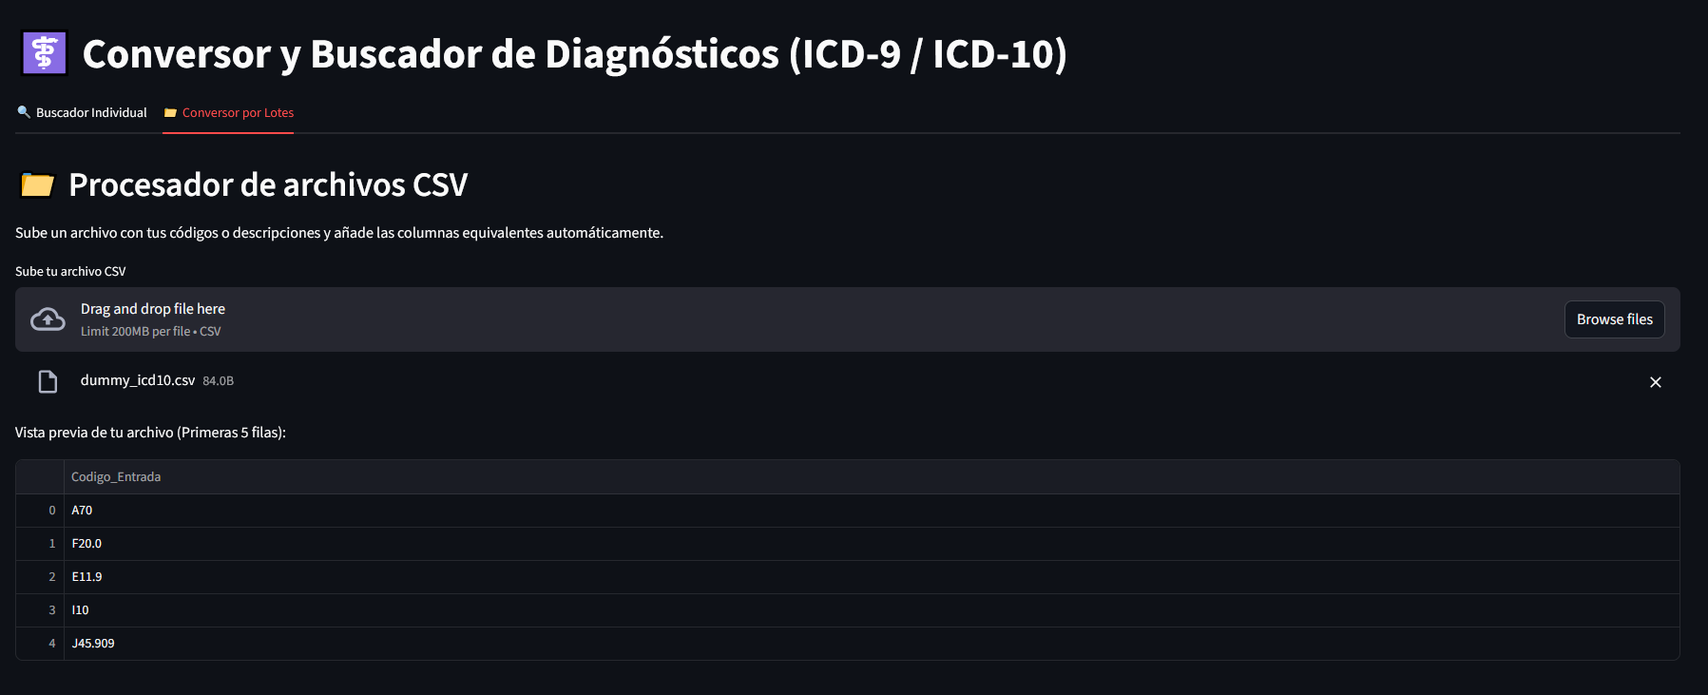
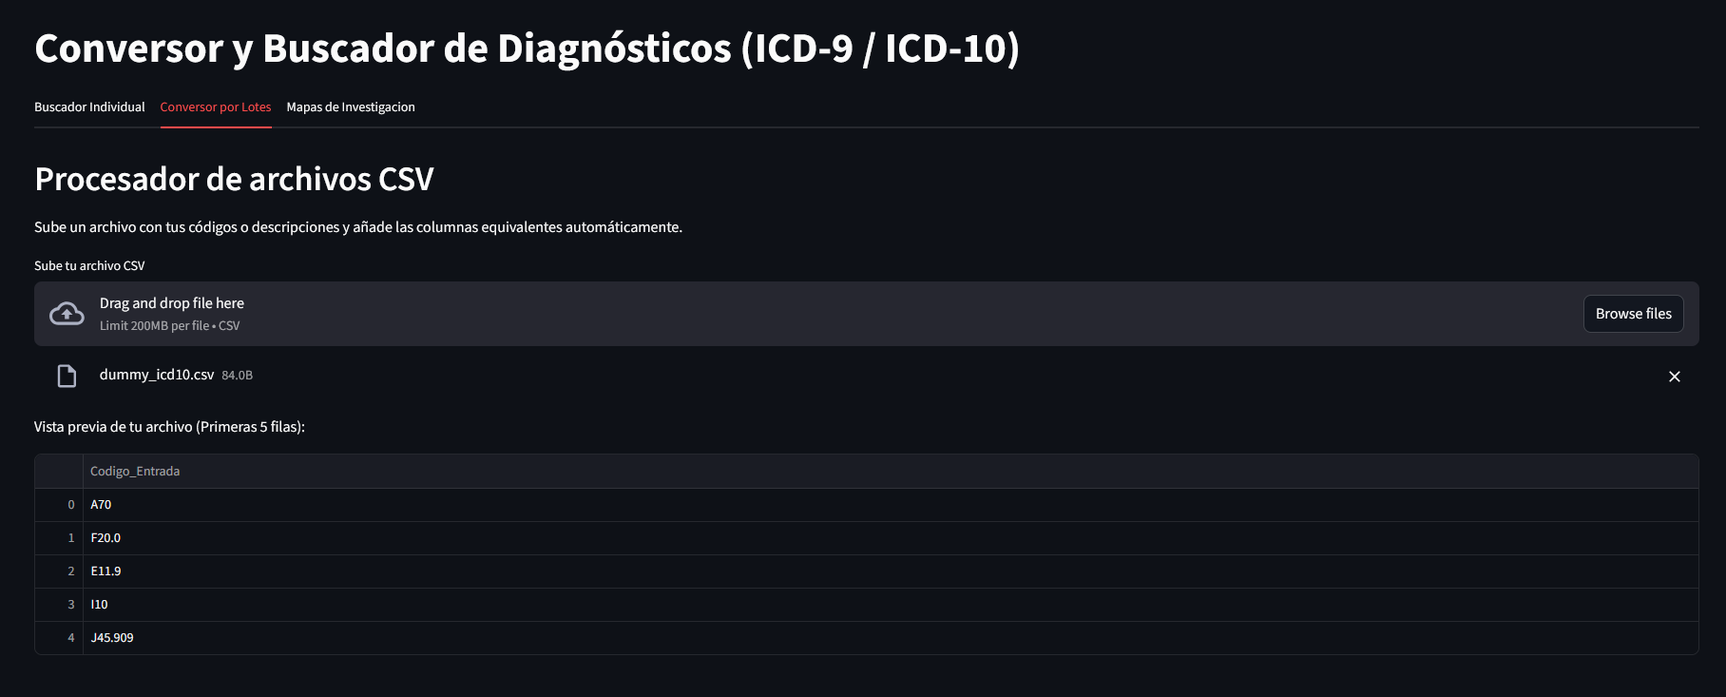
Retoques de apartados

diff --git a/LaTeX/Memoria.tex b/LaTeX/Memoria.tex
@@ -269,8 +269,6 @@
 \listoffigures % Índice de figuras 
 \newpage
 \listoftables % Índice de cuadros y tablas 
-\newpage
-\lstlistoflistings % Índice de codigos
 
 \newpage
 \chapter*{Glosario y Acrónimos}
@@ -499,7 +497,7 @@ En el panorama actual de la psiquiatría computacional, el \textit{Machine Learn
 A continuación, se presenta una comparativa técnica de los algoritmos identificados en la tabla:
 \begin{table}[h]
     \centering
-    \begin{tabular}{|l|p{3cm}|p{5cm}|p{4cm}|}
+    \begin{tabular}{|p{2cm}|p{3cm}|p{5cm}|p{4cm}|}
         \hline
         \textbf{Algoritmo} & \textbf{Fortalezas} & \textbf{Limitaciones} & \textbf{Necesidad de Procesamiento}\\
         \hline
@@ -511,7 +509,7 @@ A continuación, se presenta una comparativa técnica de los algoritmos identifi
         \hline
         CNN / RNN & Capacidad para procesar tensores de imagen y señales temporales. & Menor representación en meta-análisis clínicos \cite{Tyagi}. & Requiere selección rigurosa de hiperparámetros.\\
         \hline
-        DL & Potencial para modelar relaciones no lineales complejas. & Riesgo de sobreajuste y falta de interpretabilidad \cite{Amleshi}. & Requiere grandes conjuntos de datos y técnicas de regularización. \\
+        DL & Potencial para modelar relaciones no lineales complejas. & Riesgo de sobreajuste y falta de interpretabilidad \cite{Amleshi}. & Requiere grandes conjuntos de datos y técnicas de regularización. \\ \hline
     \end{tabular}
     \caption{Comparativa de algoritmos de IA aplicados a la predicción de resultados en esquizofrenia.}
 \end{table}
@@ -999,9 +997,9 @@ Tras el análisis exhaustivo de los diferentes paradigmas tecnológicos y los re
 La arquitectura propuesta se fundamenta en los siguientes tres pilares técnicos:
 
 \begin{enumerate}
-\item \textbf{Motor Predictivo basado en Ensamblados (ML Tradicional):} A pesar de la sofisticación semántica y la capacidad de atención de los modelos basados en Transformers (BERT), la experimentación empírica determinó que, para la naturaleza tabular y la alta dimensionalidad de las 20 columnas de diagnósticos clínicos, los algoritmos \textbf{XGBoost} y \textbf{Random Forest} ofrecen un rendimiento superior. Por ello, la propuesta final selecciona estos modelos entrenados sobre el \textbf{Dataset 3 (Híbrido RUS + VAE)}, garantizando una frontera de decisión robusta, equilibrada frente al desbalanceo de clases y con un coste computacional significativamente menor en tiempo de inferencia.
-\item \textbf{Capa de Contexto Relacional (Neo4j):} Como complemento a la predicción probabilística del motor de \textit{Machine Learning}, se integra de forma permanente el \textbf{Grafo de Conocimiento}. Esta capa permite al clínico no solo recibir una predicción numérica, sino visualizar la red de comorbilidades y la cercanía topológica del paciente dentro de la comunidad de diagnósticos del \textit{dataset} regional. Esta integración aporta una dimensión de interpretabilidad relacional necesaria en entornos médicos, permitiendo validar las predicciones del modelo mediante la observación de patrones de co-ocurrencia clínica.
-\item \textbf{Motor de Interoperabilidad Semántica (Conversor ICD):} Se propone la integración nativa de un motor de traducción que actúe como la puerta de enlace (\textit{gateway}) de la información. Esto garantiza que la propuesta final sea agnóstica al sistema de codificación del historial original (ICD-9 o ICD-10) y que pueda transformar texto libre en códigos estandarizados, permitiendo una ingesta de datos limpia hacia los clasificadores y una salida bilingüe orientada a la investigación internacional.
+    \item \textbf{Motor Predictivo basado en Ensamblados (ML Tradicional):} A pesar de la sofisticación semántica y la capacidad de atención de los modelos basados en Transformers (BERT), la experimentación empírica determinó que, para la naturaleza tabular y la alta dimensionalidad de las 20 columnas de diagnósticos clínicos, los algoritmos \textbf{XGBoost} y \textbf{Random Forest} ofrecen un rendimiento superior. Por ello, la propuesta final selecciona estos modelos entrenados sobre el \textbf{Dataset 3 (Híbrido RUS + VAE)}, garantizando una frontera de decisión robusta, equilibrada frente al desbalanceo de clases y con un coste computacional significativamente menor en tiempo de inferencia.
+    \item \textbf{Capa de Contexto Relacional (Neo4j):} Como complemento a la predicción probabilística del motor de \textit{Machine Learning}, se integra de forma permanente el \textbf{Grafo de Conocimiento}. Esta capa permite al clínico no solo recibir una predicción numérica, sino visualizar la red de comorbilidades y la cercanía topológica del paciente dentro de la comunidad de diagnósticos del \textit{dataset} regional. Esta integración aporta una dimensión de interpretabilidad relacional necesaria en entornos médicos, permitiendo validar las predicciones del modelo mediante la observación de patrones de co-ocurrencia clínica.
+    \item \textbf{Motor de Interoperabilidad Semántica (Conversor ICD):} Se propone la integración nativa de un motor de traducción que actúe como la puerta de enlace (\textit{gateway}) de la información. Esto garantiza que la propuesta final sea agnóstica al sistema de codificación del historial original (ICD-9 o ICD-10) y que pueda transformar texto libre en códigos estandarizados, permitiendo una ingesta de datos limpia hacia los clasificadores y una salida bilingüe orientada a la investigación internacional.
 \end{enumerate}
 En conclusión, la propuesta metodológica definitiva de este trabajo consiste en un \textbf{Sistema de Soporte Híbrido} que orquesta estos tres componentes bajo una interfaz web unificada. El flujo de trabajo propuesto comienza con la normalización y conversión de los diagnósticos, continúa con la clasificación del espectro esquizofrénico mediante árboles de decisión optimizados y finaliza con la validación visual de la trayectoria del paciente a través del análisis de comunidades en el grafo de conocimiento. Esta sinergia tecnológica permite transformar un listado plano de registros en un marco de decisión clínica estructurado, transparente y funcional.
 
@@ -1487,7 +1485,7 @@ Este dataset universal nos da 2 aplicacions muy importantes:
 
 El módulo de visualización de la aplicación se ha diseñado bajo el principio de simplicidad y eficiencia en la interfaz de usuario (\textit{UI/UX}). El objetivo principal es evitar la sobrecarga cognitiva del personal sanitario, transformando los resultados numéricos de los modelos predictivos y las consultas complejas a la base de datos de grafos en representaciones visuales intuitivas y directamente interpretables durante la práctica clínica.
 
-Esta decisión de desarrollar una plataforma web propia responde no solo a la necesidad de integrar los algoritmos de IA, sino también a las severas limitaciones que presentan las herramientas de conversión y consulta disponibles actualmente en la web:
+Esta decisión de desarrollar una plataforma web propia responde  a las severas limitaciones que presentan las herramientas de conversión y consulta disponibles actualmente en el internet.
 \begin{comment}
 \begin{itemize}
     \item \textbf{Limitación del portal oficial español (eCIEMaps):} El navegador del Ministerio de Sanidad \cite{eciemaps_sanidad} está diseñado como un catálogo jerárquico estático. Su interfaz resulta rígida y lenta, estando orientada exclusivamente a la búsqueda puntual e individualizada de un único código cada vez, lo que imposibilita la traducción masiva o por lotes (\textit{batch processing}) de historiales clínicos.
@@ -1500,16 +1498,15 @@ Esta decisión de desarrollar una plataforma web propia responde no solo a la ne
 Frente a estas carencias, la aplicación web desarrollada en \textbf{Streamlit} consolida en un único entorno centralizado tres pilares funcionales:
 \begin{enumerate}
     \item \textbf{Procesamiento por lotes e instantáneo:} Permite la conversión individual y masiva entre CIE-9 y CIE-10 en castellano sin restricciones de volumen ni publicidad.
-    \item \textbf{Exploración gráfica de comorbilidades:} Renderiza de forma interactiva las redes relacionales almacenadas en Neo4j, permitiendo al clínico navegar visualmente por las asociaciones entre diagnósticos.
-    \item \textbf{Cuadro de mando predictivo e interpretable:} Presenta las probabilidades diagnósticas de los modelos de \textit{Machine Learning} y \textit{Deep Learning} de forma clara, complementándolas con gráficos relacionales y mapas de distribución espacial.
+    \item \textbf{Exploración gráfica de comorbilidades y mapas de estudio:} Renderiza de forma interactiva las redes relacionales almacenadas en Neo4j y mapas de frecuencias, permitiendo al clínico navegar visualmente por las asociaciones entre diagnósticos o estudiar la distribucion de diagnosticos.
+    \item \textbf{Consulta de diagnosticos:} Facil visualizacion de las distintas formas y lenguajes con los que se pueden representar diagnosticos clinicos.
 \end{enumerate}
 
 
 
 \section{Requisitos}
 
-Para garantizar un desarrollo de \textit{software} riguroso y alineado con las metodologías ágiles de ingeniería, la herramienta web desarrollada en \textbf{Streamlit} se ha diseñado a partir de una fase previa de especificación técnica. Este apartado formaliza el comportamiento del sistema mediante el catálogo de Requisitos Funcionales (RF), Requisitos No Funcionales (RNF) y las Historias de Usuario (HU) asociadas.
-Los requisitos del sistema delimitan las capacidades operativas y las restricciones de calidad que debe satisfacer la plataforma:
+Para garantizar un desarrollo de software riguroso y alineado con las metodologías ágiles de ingeniería, la herramienta web desarrollada en \textbf{Streamlit} se ha diseñado suigiendo unas especifiaciones y requisiots a cumplir, recopilados entre Requisitos Funcionales (RF), Requisitos No Funcionales (RNF) y las Historias de Usuario (HU) asociadas.
 
 \subsection{Requisitos Funcionales}
 \begin{table}[htbp]
@@ -1521,15 +1518,8 @@ Los requisitos del sistema delimitan las capacidades operativas y las restriccio
 \textbf{Código} & \textbf{Descripción del Requisito Funcional (RF)} \\ \hline
 \textbf{RF-01} & \textbf{Mapeo normativo CIE-9 / CIE-10:} El sistema debe realizar la conversión automática y bidireccional entre las codificaciones diagnósticas antiguas e independientes. \\
 \textbf{RF-02} & \textbf{Múltiples conversiones:} El sistema debe permitir la conversión simultánea de varios códigos a un formato deseado. \\
-\textbf{RF-03} & \textbf{Exportación de informes y analítica:} El sistema debe permitir descargar los resultados de las conversiones en lote en formatos estándar (PDF/CSV). \\
-\begin{comment}
-\textbf{RF-02} & \textbf{Inferencia predictiva multiclase:} El sistema debe procesar sintomatología o historiales clínicos y devolver la probabilidad diagnóstica dentro del espectro esquizofrénico mediante los modelos entrenados. \\
-\textbf{RF-03} & \textbf{Exploración de grafos clínicos:} El sistema debe consultar la base de datos Neo4j mediante lenguaje \textit{Cypher} para renderizar visualmente las comorbilidades y trayectorias de pacientes. \\
-\textbf{RF-04} & \textbf{Visualización epidemiológica espacial:} El sistema debe generar mapas coropléticos interactivos cruzando datos de densidad poblacional (CSV) con límites vectoriales (GeoJSON). \\
-\textbf{RF-05} & \textbf{Procesamiento de texto libre (NLP):} El sistema debe tokenizar y evaluar descripciones médicas en lenguaje natural en español mediante la arquitectura BERT. \\ \hline
-\textbf{RF-07} & \textbf{Filtrado avanzado en la red de grafos:} El sistema debe ofrecer controles interactivos para filtrar el subgrafo de Neo4j según variables sociodemográficas (rango de edad, sexo) o por umbrales de densidad de la relación de comorbilidad. \\
-\textbf{RF-08} & \textbf{Trazabilidad y registro de inferencias (Logs):} El sistema debe almacenar un registro local desidentificado de los diagnósticos inferidos y parámetros utilizados para permitir auditorías técnicas posteriores. \\ \hline
-\end{comment}
+\textbf{RF-03} & \textbf{Exportación de informes y analítica:} El sistema debe permitir descargar los resultados de las conversiones en lote en formatos estándar CSV. \\
+\textbf{RF-04} & \textbf{Visualizacion de mapas y grafos} El sistema debe permitir al usuario mostrar en pantalla y permitir interactuar con los graficos y mapas generados durante el estudio. \\ \hline
 
 \end{tabular}
 \caption{Catálogo de Requisitos Funcionales del sistema.}
@@ -1545,12 +1535,11 @@ Los requisitos del sistema delimitan las capacidades operativas y las restriccio
 \begin{tabular}{lp{10cm}}
 \hline
 \textbf{Código} & \textbf{Descripción del Requisito No Funcional (RNF)} \\ \hline
-\textbf{RNF-01} & \textbf{Tiempo de respuesta (Rendimiento):} El tiempo de inferencia de las conversiones individuales no superará los 5 segundos y las conversiones en lote no excederán los 30 segundos. \\
+\textbf{RNF-01} & \textbf{Tiempo de respuesta (Rendimiento):} El tiempo de inferencia de las conversiones individuales no superará los 5 segundos y las conversiones en lote no excederán los 30 segundos. El tiempo de carga de los mapas no superará los 30 segundos. \\
 \textbf{RNF-02} & \textbf{Usabilidad (UX/UI):} La interfaz debe ser intuitiva, accesible desde navegadores web convencionales y no requerir conocimientos de programación por parte del clínico. \\
 \textbf{RNF-03} & \textbf{Seguridad y Privacidad (ENS/RGPD):} El sistema debe garantizar la anonimización absoluta de la información tratada, operando bajo el principio de mínimo privilegio. \\
 \textbf{RNF-04} & \textbf{Interoperabilidad y Portabilidad:} El \textit{backend} debe basarse en formatos abiertos y estándar (CSV, GeoJSON, ejecutable de Python). \\
-\textbf{RNF-05} & \textbf{Mantenibilidad y Modularidad:} La arquitectura del \textit{software} debe estar desacoplada en capas independientes (interfaz, pipelines de IA y conector Neo4j) para facilitar el reemplazo o actualización de modelos sin alterar la interfaz. \\
-\textbf{RNF-06} & \textbf{Escalabilidad del almacenamiento:} La base de datos orientada a grafos debe estar optimizada en índices de nodos para mantener tiempos de consulta eficientes ante futuros incrementos en el número de pacientes o conexiones diagnósticas. \\ \hline
+\textbf{RNF-05} & \textbf{Escalabilidad del sistema:} La seleccion de mapas y figuras a mostrar o las opciones de conversion de codigos se tienen que actualizar de forma dinamica sin tener que modificar el codigo de la pagina web. \\ \hline
 \end{tabular}
 \caption{Catálogo de Requisitos No Funcionales del sistema.}
 \label{tab:requisitos_no_funcionales}
@@ -1569,16 +1558,16 @@ Los requisitos del sistema delimitan las capacidades operativas y las restriccio
 \textbf{Código: HU-01} & \textbf{Título: Conversión e Interoperabilidad CIE-9 / CIE-10} \\ \hline
 \textbf{Rol del usuario} & Personal Administrativo / Clínico. \\ \hline
 \textbf{Descripción} & Como usuario del sistema, quiero consultar la equivalencia exacta entre códigos históricos CIE-9 y modernos CIE-10 para mantener la integridad documental. \\ \hline
-\textbf{Prioridad} & Media (\textit{Should Have}). \\ \hline
-\textbf{Dependencias} & RF-02, Tabla relacional CSV de mapeos normativos. \\ \hline
+\textbf{Prioridad} & Alta. \\ \hline
+\textbf{Dependencias} & RF-01, RF-02, Tabla relacional CSV de mapeos normativos. \\ \hline
 \textbf{Criterios de Aceptación} & 
 \begin{itemize}[leftmargin=*]
-    \item \textbf{CA-4.1:} El módulo debe permitir búsquedas bidireccionales por código o por texto descriptivo.
-    \item \textbf{CA-4.2:} Debe mostrarse de forma clara la correspondencia oficial y su descripción en español.
+    \item \textbf{CA-1.1:} El módulo debe permitir búsquedas bidireccionales por código o por texto descriptivo.
+    \item \textbf{CA-1.2:} Debe mostrarse de forma clara la correspondencia oficial y su descripción en español.
 \end{itemize} \\ \hline
 \end{tabular}
-\caption{Especificación de la Historia de Usuario HU-04: Mapeo CIE.}
-\label{tab:hu_04}
+\caption{Especificación de la Historia de Usuario HU-01: Mapeo CIE.}
+\label{tab:hu_01}
 \end{table}
 
 \begin{table}[htbp]
@@ -1589,18 +1578,40 @@ Los requisitos del sistema delimitan las capacidades operativas y las restriccio
 \hline
 \rowcolor[RGB]{239,239,239} 
 \textbf{Código: HU-02} & \textbf{Título: Análisis Espacial e Inspección Cartográfica} \\ \hline
-\textbf{Rol del usuario} & Gestor Sanitario / Epidemiólogo. \\ \hline
+\textbf{Rol del usuario} & Epidemiólogo / Investigador. \\ \hline
 \textbf{Descripción} & Como epidemiólogo, quiero visualizar la distribución geográfica de los casos por código postal para detectar focos de prevalencia poblacional. \\ \hline
-\textbf{Prioridad} & Alta. \\ \hline
-\textbf{Dependencias} & Ficheros GeoJSON y CSV de frecuencias agregadas. \\ \hline
+\textbf{Prioridad} & Media. \\ \hline
+\textbf{Dependencias} & RF-04, Ficheros GeoJSON y CSV de frecuencias agregadas. \\ \hline
 \textbf{Criterios de Aceptación} & 
 \begin{itemize}[leftmargin=*]
-    \item \textbf{CA-3.1:} El mapa coroplético debe renderizar un gradiente de color proporcional a la frecuencia de casos.
-    \item \textbf{CA-3.2:} Al pasar el cursor (\textit{tooltip}) sobre un código postal, debe mostrarse el número de afectados.
-    \item \textbf{CA-3.3:} El visor debe permitir hacer \textit{zoom} y desplazamiento fluido por todo el territorio.
+    \item \textbf{CA-2.1:} El mapa coroplético debe renderizar un gradiente de color proporcional a la frecuencia de casos.
+    \item \textbf{CA-2.2:} Al pasar el cursor sobre un código postal, debe mostrarse el número de afectados o datos sobre la zona.
+    \item \textbf{CA-2.3:} El visor debe permitir hacer zoom y desplazamiento fluido por todo el territorio.
 \end{itemize} \\ \hline
 \end{tabular}
-\caption{Especificación de la Historia de Usuario HU-03: Análisis Espacial.}
+\caption{Especificación de la Historia de Usuario HU-02: Análisis Espacial.}
+\label{tab:hu_02}
+\end{table}
+
+\begin{table}[htbp]
+\centering
+\small
+\renewcommand{\arraystretch}{1.0}
+\begin{tabular}{|p{3.5cm}|p{10.5cm}|}
+\hline
+\rowcolor[RGB]{239,239,239} 
+\textbf{Código: HU-03} & \textbf{Título: Exportación de Códigos Convertidos CIE-9 a CIE-10} \\ \hline
+\textbf{Rol del usuario} & Facultativo / Gestor de Datos Clínicos. \\ \hline
+\textbf{Descripción} & Como gestor de datos, quiero poder descargar los resultados de la conversión normativa en un archivo CSV para integrar masivamente las equivalencias en el sistema de historia clínica o tratarlos en herramientas de análisis externas. \\ \hline
+\textbf{Prioridad} & Media. \\ \hline
+\textbf{Dependencias} & RF-02, RF-03, Dataset estructurado de conversión CIE, Módulo conversor de Streamlit. \\ \hline
+\textbf{Criterios de Aceptación} & 
+\begin{itemize}[leftmargin=*]
+    \item \textbf{CA-3.1:} La interfaz debe incorporar un botón visible que permita la descarga directa de la tabla de resultados en formato estandarizado \texttt{.csv}, sin tener que recargar la página web ni exponer datos.
+    \item \textbf{CA-3.2:} El archivo descargado debe incluir correctamente las columnas mapeadas que se han seleccionado, respetando la codificación UTF-8 para evitar errores en caracteres especiales.
+\end{itemize} \\ \hline
+\end{tabular}
+\caption{Especificación de la Historia de Usuario HU-03: Exportación de Códigos Convertidos.}
 \label{tab:hu_03}
 \end{table}
 
@@ -1608,7 +1619,7 @@ Los requisitos del sistema delimitan las capacidades operativas y las restriccio
 
 Mi aplicación web centra su potencial visual en la estructuración limpia de formularios de texto, tablas de datos dinámicas y paneles interactivos. Dado que el objetivo primordial del sistema es la conversión ágil de códigos ICD y la clasificación semántica en tiempo real, el diseño da prioridad absoluta al texto y a la legibilidad de los diagnósticos frente a las representaciones gráficas convencionales.
 
-La interfaz de usuario se articula en torno a dos bloques visuales fundamentales que constan de un campo de texto libre optimizado donde el facultativo introduce la descripción clínica o el diagnóstico en lenguaje natural. Visualmente, el sistema responde de forma síncrona, eliminando elementos distractores y presentando el resultado del conversor ICD-9 a ICD-10 de manera jerárquica mediante cajas de texto contrastadas, permitiendo una validación visual inmediata.
+Coomo ejemplo de la sencillez y facilidad de uso de la web, la interfaz de usuario en la pestalla de Buscador Individual se articula en torno a dos bloques visuales fundamentales que constan de un campo de texto libre optimizado donde el facultativo introduce la descripción clínica o el diagnóstico en lenguaje natural. Visualmente, el sistema responde de forma síncrona, eliminando elementos distractores y presentando el resultado del conversor ICD-9 a ICD-10 de manera jerárquica mediante cajas de texto contrastadas, permitiendo una validación visual inmediata.
 
 \begin{figure}[htbp]
     \centering
@@ -1619,14 +1630,14 @@ La interfaz de usuario se articula en torno a dos bloques visuales fundamentales
 
 \section{Navegación}
 
-La arquitectura de navegación de la aplicación web se ha concebido bajo el paradigma de jerarquía plana, minimizando la profundidad de los menús para reducir drásticamente el número de interacciones necesarias para obtener la información. En el entorno de una consulta psiquiátrica real, la eficiencia temporal es crítica; por lo tanto, el flujo de usuario se ha modelado para ser lineal, rápido y completamente libre de distracciones.
+La arquitectura de navegación de la aplicación web se ha concebido bajo el paradigma de jerarquía plana, minimizando la profundidad de los menús para reducir drásticamente el número de interacciones necesarias para obtener la información. En el entorno de una consulta psiquiátrica real, la eficiencia temporal y la simpleza es crítica; por lo tanto, el flujo de usuario se ha modelado para ser lineal, rápido y completamente libre de distracciones.
 
 El recorrido del profesional médico a través de la herramienta sigue una secuencia lógica que emula su propio proceso clínico:
 
 \begin{enumerate}
-    \item \textbf{Punto de entrada y selección contextual:} Mediante un menú de navegación simplificado (ubicado en un panel lateral o barra superior), el facultativo puede alternar de manera instantánea entre las funcionalidades principales del sistema (como el conversor de códigos ICD individual o el conversor de archivos), sin necesidad de recargar la plataforma ni perder el contexto de la sesión.
+    \item \textbf{Punto de entrada y selección contextual:} Mediante un menú de navegación simplificado (ubicado en una barra superior), el facultativo puede alternar de manera instantánea entre las funcionalidades principales del sistema (como el conversor de códigos ICD individual o el conversor de archivos), sin necesidad de recargar la plataforma ni perder el contexto de la sesión.
     
-    \item \textbf{Introducción directa de parámetros:} Al acceder al módulo deseado, el centro de la pantalla presenta de forma exclusiva los campos de entrada de texto, para el conversor individual, o de archivos, para el conversor por lotes. Esta ausencia de submenús obliga al sistema a guiar visualmente al usuario hacia la acción principal: introducir la descripción clínica/código de diagnóstico del paciente o el archivo que se desea convertir.
+    \item \textbf{Introducción directa de parámetros:} Al acceder al módulo deseado, el centro de la pantalla presenta de forma exclusiva los campos de entrada de texto, para el conversor individual, o de archivos, para el conversor por lotes. o la seleccion de figuras, en el visualizador. Esta ausencia de submenús obliga al sistema a guiar visualmente al usuario hacia la acción principal: introducir la descripción clínica/código de diagnóstico del paciente o el archivo que se desea convertir.
     
     \item \textbf{Despliegue dinámico de resultados:} Una vez ejecutada la consulta, la navegación evita deliberadamente el uso de ventanas emergentes (\textit{pop-ups}) o redirecciones a nuevas páginas. 
 \end{enumerate}
@@ -1635,17 +1646,9 @@ Este diseño de un solo nivel garantiza que cualquier miembro del personal sanit
 
 Por otro lado, cuando el usuario conmuta la interfaz hacia la pestaña de \textit{Conversor por Lotes}, la arquitectura de la aplicación cambia hacia un modelo de flujo de trabajo guiado por estados secuenciales (\textit{State-driven Workflow}). Este diseño impide que el usuario cometa errores de configuración al bloquear las opciones avanzadas hasta que se verifiquen con éxito los pasos previos:
 
-\begin{enumerate}
-    \item \textbf{Fase de Ingesta e Inspección Estructural:} El flujo se inicia en un componente de arrastre de archivos (\textit{Drag and Drop}) optimizado para archivos CSV, proporcionado por Streamlit. Tras la carga del fichero por parte del usuario, el sistema realiza de forma asíncrona un \textit{parsing} primario y renderiza una previsualización interactiva limitada a las primeras 5 filas. Esto permite al facultativo comprobar visualmente si la estructura del archivo cargado coincide con sus expectativas antes de iniciar cualquier cómputo.
-    
-    \item \textbf{Fase de Parametrización Dinámica:} Una vez validada la presencia del archivo, la interfaz desbloquea dinámicamente el panel de <<Configuración de la conversión>>. En este punto, la navegación es puramente selectiva: el sistema lee las cabeceras del CSV original y rellena automáticamente un menú desplegable para que el usuario elija qué columna exacta contiene los datos a convertir, el formato de origen (ICD-9, ICD-10 o descripción) y las conversiones deseadas para el conjunto de datos resultante (códigos cruzados, descripciones en castellano o descripciones internacionales).
-    
-    \item \textbf{Ejecución, Validación y Persistencia:} Tras presionar el botón de procesamiento, el sistema ejecuta las transformaciones en segundo plano, notificando el éxito de la operación mediante una alerta visual integrada de éxito. Finalmente, el flujo concluye revelando una tabla de resultados enriquecida y habilitando de forma síncrona el botón de descarga, cerrando el ciclo de vida del dato dentro de la sesión web sin provocar disrupciones en la pantalla principal.
-\end{enumerate}
-
 \begin{figure}
     \centering
-    \makebox[\textwidth]{\includegraphics[width=1.1\textwidth]{imagenes/Diagrama_navegacion.png}}
+    \makebox[\textwidth]{\includegraphics[width=1.1\textwidth]{imagenes/Diagrama_Navegacion.png}}
     \caption{Diagrama de flujo de la aplicación web, mostrando la secuencia de interacción del usuario desde la selección de funcionalidad hasta la obtención de resultados.}
     \label{fig:flujo_app}
 \end{figure}
@@ -1663,6 +1666,7 @@ Este enfoque se consolida a través de tres pilares fundamentales de diseño:
     
     \item \textbf{Eficiencia y ligereza tecnológica:} Al estar construida sobre un marco de trabajo web ágil, la aplicación prescinde de animaciones pesadas o elementos flotantes que dificulten la navegación a usuarios con habilidades digitales básicas. Esta ligereza técnica asegura también que la plataforma sea accesible desde ordenadores antiguos o clientes ligeros (\textit{thin clients}) integrados en la red hospitalaria local, garantizando un tiempo de respuesta rápido e independiente de las capacidades del \textit{hardware} del puesto de trabajo.
 \end{itemize}
+
 \section{Conversor de ICD}
 
 El módulo denominado <<Conversor y Buscador de Diagnósticos>> constituye el núcleo operativo de la interfaz de usuario. Su propósito principal es resolver la brecha de interoperabilidad semántica existente entre los sistemas de registro históricos (basados en la clasificación ICD-9) y los estándares de codificación modernos (ICD-10), proporcionando un entorno de traducción simétrica y consulta ágil para el facultativo.
@@ -1690,17 +1694,16 @@ Las características funcionales clave integradas en este panel son las siguient
 
 La segunda funcionalidad de la herramienta es el módulo de procesamiento masivo, diseñado específicamente para dar respuesta a flujos de trabajo orientados a la investigación epidemiológica o a la migración a gran escala de bases de datos hospitalarias locales. Esta funcionalidad traslada la lógica de traducción semántica individualizada a un motor de transformación de conjuntos de datos tabulares en memoria.
 
-Las características arquitectónicas y de diseño técnico que definen este panel se desglosan a continuación:
+Las características arquitectónicas y funcionamiento que definen este panel se desglosan a continuación:
 
-\begin{itemize}
-    \item \textbf{Aislamiento y tipado dinámico de columnas:} El motor de la aplicación web lee de forma nativa el esquema del archivo CSV suministrado por el usuario. Al automatizar la extracción de las etiquetas de las columnas (como se ilustra en el campo \textit{Codigo\_Entrada}), el sistema independiza al profesional de la necesidad de adaptar o renombrar la estructura de sus archivos de origen, garantizando la compatibilidad con cualquier volcado de datos crudos proveniente de un sistema de historia clínica ajeno.
+\begin{enumerate}
+    \item \textbf{Fase de Ingesta e Inspección Estructural: \ref{fig:conversor_lotes_1}} El flujo se inicia en un componente de arrastre de archivos (\textit{Drag and Drop}) optimizado para archivos CSV, proporcionado por Streamlit. Tras la carga del fichero por parte del usuario, el sistema realiza de forma asíncrona un \textit{parsing} primario y renderiza una previsualización interactiva limitada a las primeras 5 filas. Esto permite al facultativo comprobar visualmente si la estructura del archivo cargado coincide con sus expectativas antes de iniciar cualquier cómputo.
     
-    \item \textbf{Modularidad bajo demanda y gestión de latencia:} El panel de selección de nuevas columnas permite configurar la carga de la consulta de forma granular. El usuario puede determinar si desea limitar la conversión al cruce estricto de códigos locales o si prefiere enriquecer el dataset con semántica lingüística. El sistema incluye una advertencia explícita respecto al coste computacional de activar la opción <<Inglés (API)>>; esto refleja un diseño consciente de la latencia informática, puesto que la traducción local basada en el \textit{dataset} curado opera en milisegundos, mientras que la concatenación de llamadas asíncronas externas a la API de la NLM introduce cuellos de botella de red que el usuario debe conocer.
+    \item \textbf{Fase de Parametrización Dinámica: \ref{fig:conversor_lotes_2}} Una vez validada la presencia del archivo, la interfaz desbloquea dinámicamente el panel de <<Configuración de la conversión>>. En este punto, la navegación es puramente selectiva: el sistema lee las cabeceras del CSV original y rellena automáticamente un menú desplegable para que el usuario elija qué columna exacta contiene los datos a convertir, el formato de origen (ICD-9, ICD-10 o descripción) y las conversiones deseadas para el conjunto de datos resultante (códigos cruzados, descripciones en castellano o descripciones internacionales).
     
-    \item \textbf{Previsualización síncrona del dataset transformado:} Una vez completado el algoritmo de combinación y mapeo relacional, la aplicación despliega un \textit{dataframe} dinámico integrado en la propia vista. Esta visualización presenta de forma transparente el resultado de la transformación cruzada: un código de entrada genérico (por ejemplo, el código clínico \textit{E11.9} o \textit{M54.5}) se descompone horizontalmente indexando su equivalencia en el estándar opuesto, acoplando a la vez sus respectivas descripciones diagnósticas en castellano e inglés (si es pedido).
-    
-    \item \textbf{Persistencia y exportación limpia:} El módulo concluye su pipeline operativo exponiendo un botón de acción dedicado a la descarga del recurso enriquecido. El archivo resultante mantiene intacto el orden secuencial y los identificadores originales del usuario, añadiendo estrictamente las columnas configuradas. Esta salida estandarizada garantiza que el archivo generado pueda reintroducirse directamente en herramientas de análisis estadístico posteriores o motores de bases de datos corporativos.
-\end{itemize}
+    \item \textbf{Ejecución, Validación y Persistencia \ref{fig:conversor_lotes_3}:} Tras presionar el botón de procesamiento, el sistema ejecuta las transformaciones en segundo plano, notificando el éxito de la operación mediante una alerta visual integrada de éxito. Finalmente, el flujo concluye revelando una tabla de resultados enriquecida y habilitando de forma síncrona el botón de descarga, cerrando el ciclo de vida del dato dentro de la sesión web sin provocar disrupciones en la pantalla principal.
+\end{enumerate}
+
 
 \begin{figure}[htbp]
     \centering
@@ -1721,6 +1724,27 @@ Las características arquitectónicas y de diseño técnico que definen este pan
     \makebox[\textwidth]{\includegraphics[width=1.1\textwidth]{imagenes/Web_lotes_3.png}}
     \caption{Módulo del Conversor por Lotes: Resultados de la conversión seleccionada, con opción de descarga en formato CSV.}
     \label{fig:conversor_lotes_3}
+\end{figure}
+
+\section{Visualizador de Mapas}
+
+Este modulo constituye la herramienta de exploración analítica y representación gráfica de los multiples mapas y graficos generados durante la investigacion de este trabajo, mediante un entorno interactivo que facilita el estudio de estas figuras.
+
+Como se observa en la captura \ref{fig:visualizador_mapas}, la interfaz se estructura en una seccion principal de un panel superior de selección de mapas a visualizar configurado mediante una cuadrícula adaptativa de botones de acceso rápido. Bajo de este se renderizara los modelos espaciales y relacionales en un contenedor.
+
+Las características funcionales clave integradas en este panel son las siguientes:
+
+\begin{itemize}
+    \item \textbf{Carga y navegación dinámica de recursos visuales:} La arquitectura del sistema integra un mecanismo de detección automática en el sistema de archivos local que escanea el directorio de almacenamiento en tiempo real. Esta característica permite que cualquier nuevo mapa o red exportada en formato HTML por librerías analíticas especializadas (como \textit{Folium} o \textit{Pyvis}) sea reconocido e incorporado de forma transparente a la interfaz de forma dinámica, eliminando la necesidad de modificar el código fuente.
+    
+    \item \textbf{Renderizado interactivo mediante encapsulamiento HTML/JS:} Haciendo uso de componentes de incrustación avanzada, la interfaz ejecuta los paquetes HTML/JavaScript en un contender, permitiendo que los graficos y mapas sean interactuables por su programacion de JavaScript.
+\end{itemize}
+
+\begin{figure}[htbp]
+    \centering
+    \makebox[\textwidth]{\includegraphics[width=1.1\textwidth]{imagenes/Web_mapas.png}}
+    \caption{Módulo de Visualizador de Mapas.}
+    \label{fig:visualizador_mapas}
 \end{figure}
 
 \chapter{Planificación y Gestión del Proyecto}
@@ -1750,57 +1774,48 @@ A continuación, se detalla el alcance funcional y técnico desarrollado en cada
     Fase inicial orientada a la ingesta, auditoría y sanitización de la matriz de datos clínica.
     \begin{itemize}
         \item \textit{Tareas realizadas:} Descarte de 12 variables irrelevantes para evitar ruido, filtrado de nulos, estandarización del texto descriptivo para modelos de lenguaje y generalización de los códigos. Auditoría inicial de seguridad (ENS/RGPD).
-        \item \textit{Requisitos asociados:} \texttt{RNF-03}.
     \end{itemize}
 
     \item[Sprint 2: Conversor de Códigos ICD] \hfill \\
     Diseño del archivo de equivalencias entre los estándares ICD-9, ICD-10 y descripciones clínicas.
     \begin{itemize}
         \item \textit{Tareas realizadas:} Mapeo bidireccional ICD-9 $\rightarrow$ ICD-10, estructuración de descripciones clínicas en español e inglés y generación de equivalencias en el dataset.
-        \item \textit{Historias de Usuario y Requisitos:} \texttt{HU-04}, \texttt{RF-02}.
     \end{itemize}
 
     \item[Sprint 3: Creación y Estudio de Mapas de Prevalencia] \hfill \\
     Elaboración de mapas de prevalencia para visualizar la distribución geográfica de los casos del espectro esquizofrénico en la provincia.
     \begin{itemize}
         \item \textit{Tareas realizadas:} Agregación de frecuencias por código postal, integración de cartografía vectorial en formato GeoJSON de España y generación de visores coropléticos mediante la librería \textit{Folium}.
-        \item \textit{Historias de Usuario y Requisitos:} \texttt{HU-03}, \texttt{RF-04}, \texttt{RNF-04}.
     \end{itemize}
     
     \item[Sprint 4: Formación de la Base de Datos de Grafos] \hfill \\
     Migración del paradigma tabular del dataset a un modelo NoSQL orientado a grafos para la exploración de comorbilidades.
     \begin{itemize}
         \item \textit{Tareas realizadas:} Instalación y configuración de \textbf{Neo4j}, modelado del esquema de entidades (\textit{Paciente}, \textit{Diagnóstico}) y relaciones clínicas, y escritura de consultas avanzadas en lenguaje \textit{Cypher}.
-        \item \textit{Historias de Usuario y Requisitos:} \texttt{HU-02}, \texttt{RF-03}, \texttt{RNF-06}.
     \end{itemize}
     
     \item[Sprint 5: Entrenamiento de Modelos ML y DL] \hfill \\
     Construcción del núcleo predictivo mediante la experimentación sobre los 3 datasets (Original, RUS y VAE) mediante la división estratificada.
     \begin{itemize}
         \item \textit{Tareas realizadas:} Entrenamiento de 6 clasificadores tabulares (\textit{Decision Tree, Random Forest, Gradient Boosting, XGBoost, LightGBM, CatBoost}) y ajuste fino (\textit{fine-tuning}) de 4 modelos de lenguaje basados en Transformers (\texttt{bert-base-multilingual-cased}, \texttt{BETO} \textit{cased/uncased}, \texttt{xlm-roberta-base}).
-        \item \textit{Requisitos asociados:} \texttt{RF-01}, \texttt{RF-05}.
     \end{itemize}
         
     \item[Sprint 6: Evaluación y Comparación de Resultados] \hfill \\
     Comparacion técnica del rendimiento y resultados de los modelos entrenados.
     \begin{itemize}
         \item \textit{Tareas realizadas:} Ejecución de la Búsqueda en Rejilla (\textit{Grid Search}), cálculo de métricas de rendimiento (F1-Score, Precisión, Sensibilidad, AUC) y selección del modelo ganador.
-        \item \textit{Requisitos asociados:} \texttt{RNF-01}, \texttt{RF-08}.
     \end{itemize}
     
     \item[Sprint 7: Desarrollo de la aplicación web] \hfill \\
     Construcción de una pagina web unificando los módulos desarrollados en los Sprints anteriores.
     \begin{itemize}
         \item \textit{Tareas realizadas:} Programación de la interfaz interactiva en \textbf{Streamlit}.
-% integración de los archivos de pesos de IA (\texttt{.pkl}/\texttt{PyTorch}), conexión con Neo4j y renderizado del visor geográfico. 
-        \item \textit{Requisitos asociados:} \texttt{RNF-02}, \texttt{RNF-05}.
     \end{itemize}
     
     \item[Sprint 8: Evaluación, Pruebas e Integración de la Memoria] \hfill \\
     Cierre del proyecto, verificación de calidad y documentación formal.
     \begin{itemize}
         \item \textit{Tareas realizadas:} Pruebas de integración, auditoría final del cumplimiento del ENS y redacción de la memoria del TFG.
-        \item \textit{Requisitos asociados:} \texttt{RNF-01}, \texttt{RNF-03}, \texttt{RNF-07}.
     \end{itemize}
 \end{description}
 
@@ -1815,7 +1830,7 @@ A continuación, se detalla el alcance funcional y técnico desarrollado en cada
 
 \section{Gestión y Mitigación de Riesgos}
 
-En cualquier proyecto de ingeniería enfocado en la Inteligencia Artificial y los sistemas de información clínica, existen factores de incertidumbre técnica, operativa y de infraestructura que pueden comprometer los plazos de entrega o la calidad de las soluciones. Para mitigar estos imprevistos, se ha llevado a cabo una evaluación probabilística de riesgos, clasificándolos según su probabilidad de ocurrencia ($P$) e impacto ($I$) sobre el proyecto, y definiendo estrategias previas de prevención y planes de contingencia.
+En cualquier proyecto de ingeniería enfocado en la Inteligencia Artificial y los sistemas de información clínica, existen factores de incertidumbre técnica, operativa y de infraestructura que pueden comprometer los plazos de entrega o la calidad de las soluciones, llevandome a preparar un estudio de estos posibles riesgos, clasificándolos según su probabilidad de ocurrencia ($P$) e impacto ($I$), y definiendo estrategias previas de prevención y planes de contingencia.
 
 \subsection{Matriz de Evaluación de Riesgos}
 
@@ -1879,16 +1894,15 @@ A continuación, se justifican técnicamente las acciones adoptadas para solvent
 \subsection{Justificación Técnica y Gestión del Entorno Virtual mediante Mamba}
 \label{subsec:justificacion_mamba}
 
-El desarrollo de sistemas basados en Inteligencia Artificial aplicada exige la convivencia de múltiples librerías complejas con dependencias nativas en C/C++, controladores de GPU (CUDA) y marcos de trabajo heterogéneos (\texttt{PyTorch}, \texttt{HuggingFace Transformers}, \texttt{Scikit-Learn}, \texttt{XGBoost}, \texttt{LightGBM}, \texttt{CatBoost} y los conectores de \texttt{Neo4j}). En proyectos de esta envergadura, el uso de gestores de paquetes convencionales basados exclusivamente en \textit{pip} suele derivar en un jaleo y caos de dependencias, donde la actualización o instalación de una librería corrompe los binarios compilados de otra.
+El desarrollo de sistemas basados en Inteligencia Artificial  exige la convivencia de múltiples librerías complejas con dependencias nativas en C/C++, controladores de GPU (CUDA) y marcos de trabajo heterogéneos (\texttt{PyTorch}, \texttt{HuggingFace Transformers}, \texttt{Scikit-Learn}, \texttt{XGBoost}, \texttt{LightGBM}, \texttt{CatBoost} y los conectores de \texttt{Neo4j}). En proyectos de esta envergadura, el uso de gestores de paquetes convencionales basados exclusivamente en \textit{pip} suele derivar en un jaleo y caos de dependencias, donde la actualización o instalación de una librería corrompe los binarios compilados de otra.
 
-Para prevenir este riesgo y garantizar la reproducibilidad absoluta del código, se descartó el gestor tradicional de \textit{Conda} en favor de \textbf{Mamba} (un motor de gestión de paquetes de alto rendimiento reimplementado en C++, basandose en la misma Conda). La adopción de Mamba como eje de la infraestructura de desarrollo se justifica bajo cuatro pilares técnicos fundamentales:
+Para prevenir este riesgo y garantizar la reproducibilidad absoluta del código, se descartó el gestor tradicional de \textit{Conda} en favor de \textbf{Mamba} (un motor de gestión de paquetes de alto rendimiento reimplementado en C++, basandose en la misma Conda). La adopción de Mamba como eje de la infraestructura de desarrollo se justifica bajo 3 pilares técnicos fundamentales:
 
 \begin{itemize}
-    \item \textbf{Motor de resolución C++ (\textit{libsolv}):} A diferencia de Conda (cuyo motor de resolución en Python puede tardar decenas de minutos o bloquearse al calcular el árbol de dependencias de entornos complejos), Mamba utiliza la librería \texttt{libsolv} basada en algoritmos SAT (\textit{Boolean Satisfiability Problem}). Esto reduce el tiempo de resolución del grafo de dependencias de minutos a escasos segundos, garantizando un estado coherente en todo momento.
+    \item \textbf{Motor de resolución C++ (\textit{libsolv}):} A diferencia de Conda (cuyo motor de resolución en Python puede tardar decenas de minutos o bloquearse al calcular el árbol de dependencias de entornos complejos), Mamba utiliza la librería \texttt{libsolv} basada en algoritmos SAT. Esto reduce el tiempo de resolución del grafo de dependencias de minutos a escasos segundos, garantizando un estado coherente en todo momento.
     
-    \item \textbf{Manejo nativo de binarios pesados y aceleración GPU:} Mamba gestiona con precisión quirúrgica las dependencias a nivel de sistema operativo y controladores CUDA. Esto permitió enlazar las versiones exactas de las librerías C++ requeridas por \texttt{PyTorch} para la GPU sin conflictos con las extensiones optimizadas de la CPU utilizadas por los algoritmos de ensambles tabulares.
+    \item \textbf{Manejo nativo de binarios pesados y aceleración GPU:} Mamba gestiona con precisión quirúrgica las dependencias a nivel de sistema operativo y controladores CUDA. Esto permitió enlazar las versiones exactas de las librerías C++ requeridas por PyTorch para la GPU sin conflictos con las extensiones optimizadas de la CPU utilizadas por los algoritmos de ensambles tabulares.
 
-    
     \item \textbf{Garantía de reproducibilidad científica:} La totalidad del entorno virtual fue congelada en un archivo de especificación declarativa (\texttt{environment.yml}). Esto asegura que cualquier investigador o tribunal puede replicar el entorno de ejecución exacto (mismas versiones de Python, compiladores C++ y librerías de IA) en cualquier máquina sin variaciones en el comportamiento de los modelos.
 \end{itemize}
 
@@ -2081,7 +2095,7 @@ Margen de Beneficio Industrial (10\%) & 532,20 \\ \hline
 \end{table}
 \section{Viabilidad de implantación o escalado}
 
-La solución tecnológica desarrollada en este trabajo ha sido diseñada bajo un paradigma modular y desacoplado, lo que facilita enormemente su transición desde un entorno de desarrollo local hacia un \textit{entorno de producción} real dentro de la infraestructura de un servicio de salud pública, especialmente locales como el Servicio de Salud de Castilla y León (SACYL). A continuación, se evalúa la viabilidad de este sistema atendiendo a criterios de escalabilidad técnica, seguridad normativa y sostenibilidad económica.
+La solución tecnológica desarrollada en este trabajo ha sido diseñada bajo un paradigma modular y desacoplado, lo que facilita enormemente su transición desde un entorno de desarrollo local hacia unentorno de producción real dentro de la infraestructura de un servicio de salud pública, especialmente locales como el Servicio de Salud de Castilla y León (SACYL). A continuación, se evalúa la viabilidad de este sistema atendiendo a criterios de escalabilidad técnica, seguridad normativa y sostenibilidad económica.
 
 Desde el punto de vista de la escalabilidad técnica, la elección de una base de datos NoSQL orientada a grafos como Neo4j garantiza un rendimiento óptimo incluso ante incrementos masivos en el volumen de datos. Si el sistema pasara de los 3134 registros analizados en esta memoria a gestionar el histórico completo de pacientes de la comunidad autónoma, las consultas relacionales de caminos cortos y la detección de comorbilidades mantendrían una complejidad temporal altamente eficiente gracias al principio de adyacencia libre de índices inherente a los grafos. Asimismo, para asegurar un despliegue ágil y homogéneo en la infraestructura servidores de la red sanitaria, el código de la interfaz y los modelos predictivos se han diseñado para ser empaquetados mediante tecnologías de contenedorización como Docker. Esto permite mitigar los conflictos de dependencias y replicar la aplicación de forma inmediata en cualquier nodo hospitalario.
 
